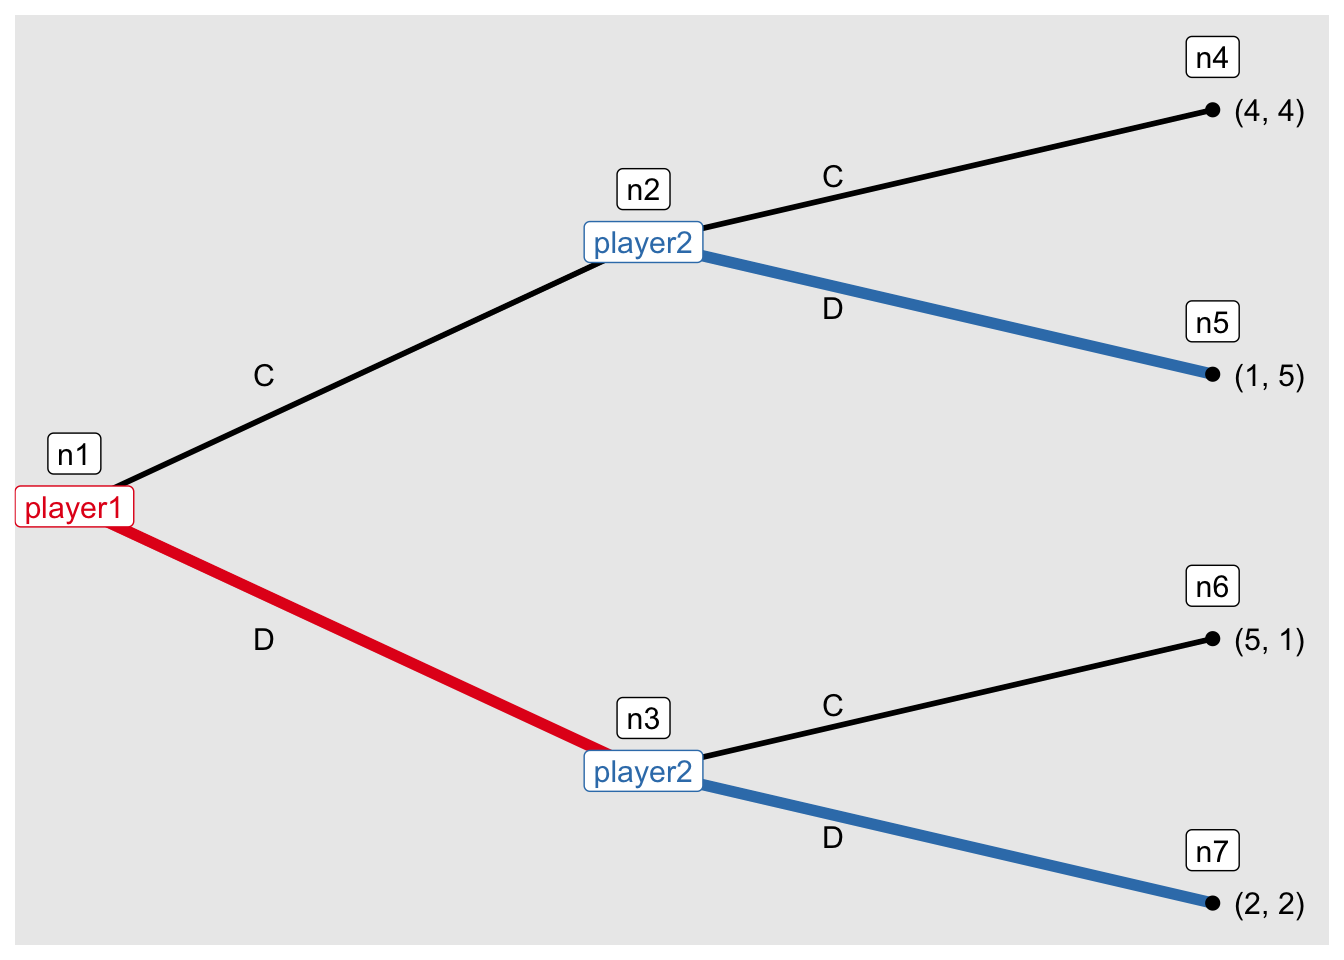
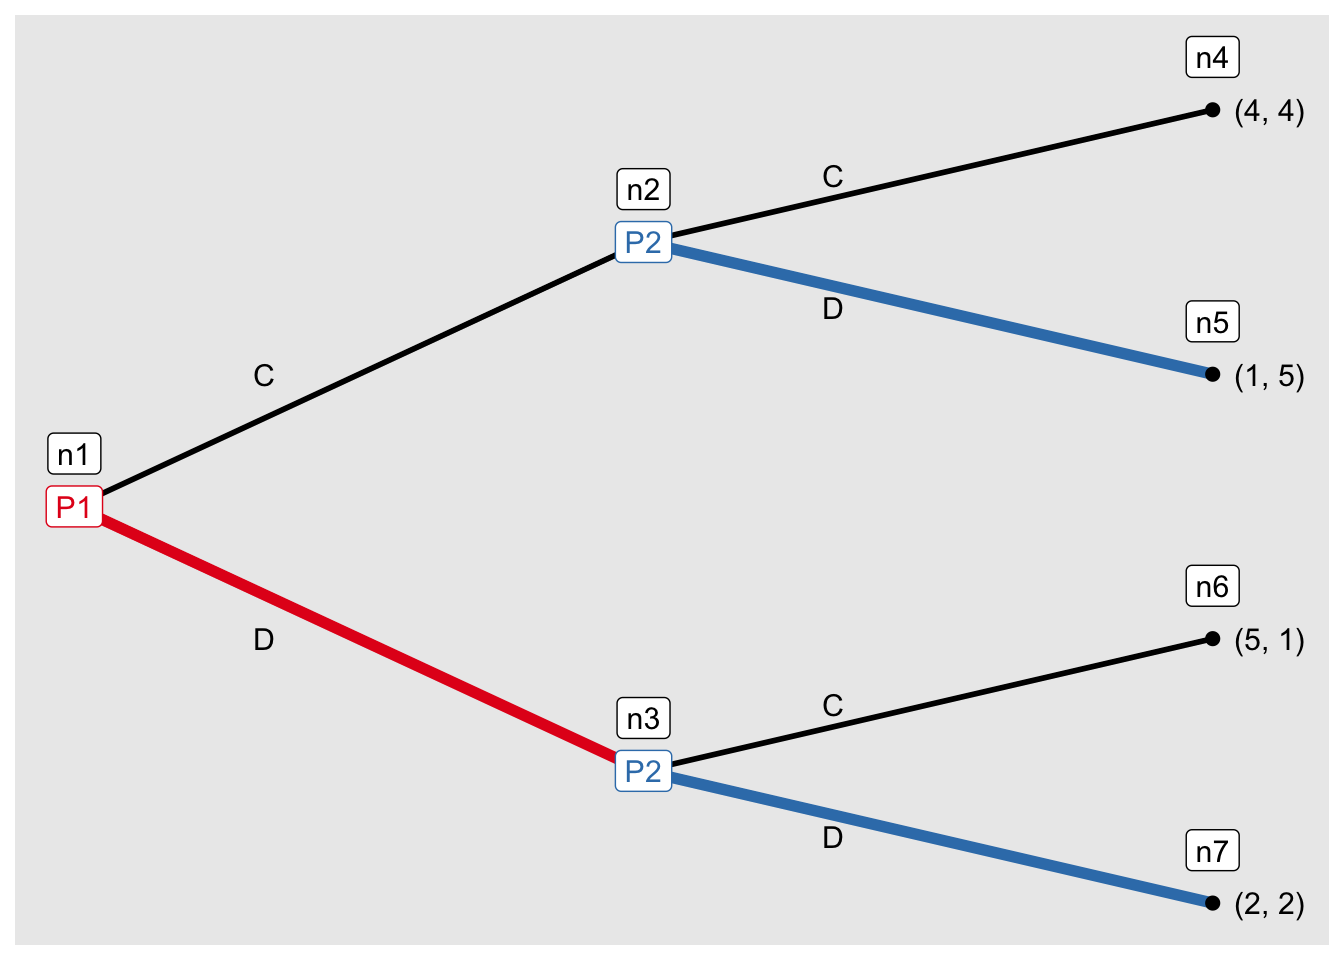
update

Changed region(s): [[0.0, 0.5, 0.125, 0.5625], [0.4375, 0.2188, 0.5312, 0.2812], [0.4062, 0.7812, 0.5312, 0.8438]]

diff --git a/docs/index.html b/docs/index.html
@@ -561,7 +561,7 @@ D
 標準形ゲームで使用した囚人のジレンマゲームを、player 1 が先手、player 2
 が後手として、プレイされる状況を考える。</p>
 <div class="sourceCode" id="cb9"><pre class="sourceCode r"><code class="sourceCode r"><span id="cb9-1"><a href="#cb9-1" aria-hidden="true" tabindex="-1"></a>g2 <span class="ot">&lt;-</span> <span class="fu">seq_form</span>(</span>
-<span id="cb9-2"><a href="#cb9-2" aria-hidden="true" tabindex="-1"></a>  <span class="at">players =</span> <span class="fu">c</span>(<span class="st">&quot;player1&quot;</span>, <span class="st">&quot;player2&quot;</span>), <span class="co"># c(&quot;player 1&quot;, &quot;player 2&quot;), だとBI でバグ発生 </span></span>
+<span id="cb9-2"><a href="#cb9-2" aria-hidden="true" tabindex="-1"></a>  <span class="at">players =</span> <span class="fu">c</span>(<span class="st">&quot;P1&quot;</span>, <span class="st">&quot;P2&quot;</span>), <span class="co"># c(&quot;player 1&quot;, &quot;player 2&quot;), だとBI でバグ発生 </span></span>
 <span id="cb9-3"><a href="#cb9-3" aria-hidden="true" tabindex="-1"></a>  <span class="at">s1 =</span> <span class="fu">c</span>(<span class="st">&quot;C&quot;</span>, <span class="st">&quot;D&quot;</span>), </span>
 <span id="cb9-4"><a href="#cb9-4" aria-hidden="true" tabindex="-1"></a>  <span class="at">s2 =</span> <span class="fu">c</span>(<span class="st">&quot;C&quot;</span>, <span class="st">&quot;D&quot;</span>),   </span>
 <span id="cb9-5"><a href="#cb9-5" aria-hidden="true" tabindex="-1"></a>  <span class="at">payoffs1 =</span><span class="fu">c</span>(<span class="dv">4</span>, <span class="dv">5</span>, <span class="dv">1</span>, <span class="dv">2</span>),</span>
@@ -577,9 +577,8 @@ D
 <div id="バックワードインダクション" class="section level3">
 <h3>バックワードインダクション</h3>
 <p>バックワードインダクションで戦略の組を求める。</p>
-<div class="sourceCode" id="cb11"><pre class="sourceCode r"><code class="sourceCode r"><span id="cb11-1"><a href="#cb11-1" aria-hidden="true" tabindex="-1"></a><span class="co"># 以下のコードはなぜかエラー。たぶんバグだと思われる。</span></span>
-<span id="cb11-2"><a href="#cb11-2" aria-hidden="true" tabindex="-1"></a>g3_sol <span class="ot">&lt;-</span> <span class="fu">solve_efg</span>(g3)</span>
-<span id="cb11-3"><a href="#cb11-3" aria-hidden="true" tabindex="-1"></a>g3_sol<span class="sc">$</span>trees</span></code></pre></div>
+<div class="sourceCode" id="cb11"><pre class="sourceCode r"><code class="sourceCode r"><span id="cb11-1"><a href="#cb11-1" aria-hidden="true" tabindex="-1"></a>g3_sol <span class="ot">&lt;-</span> <span class="fu">solve_efg</span>(g3)</span>
+<span id="cb11-2"><a href="#cb11-2" aria-hidden="true" tabindex="-1"></a>g3_sol<span class="sc">$</span>trees</span></code></pre></div>
 <pre><code>## [[1]]</code></pre>
 <p><img src="index_files/figure-html/unnamed-chunk-10-1.png" width="672" /></p>
 <p><br></p>
